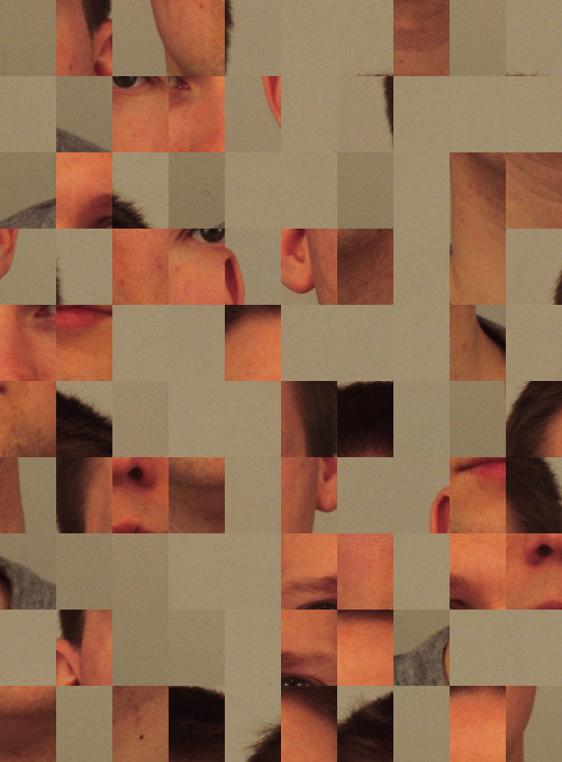
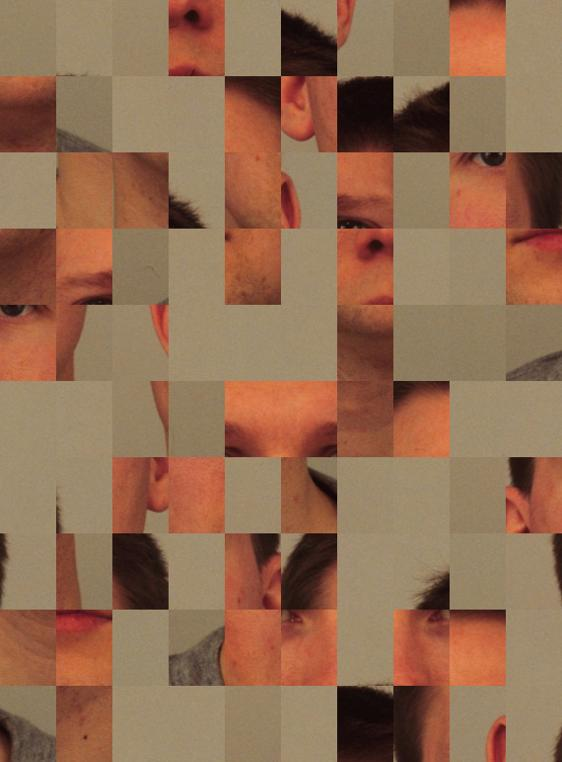
updating scramble demo

diff --git a/scramble_demo/scramble_demo.m b/scramble_demo/scramble_demo.m
@@ -4,6 +4,27 @@
 % Put all your images in a folder (just for organization purposes) let's say images/
 % install the image processing toolbox in Matlab
 
+%% Workspace
+
+input_folder = "raw_images";
+output_folder = "final_images";
+
 %% Reading Images
 
-all_images = dir
+[images, nimages, names] = read_all_images(input_folder, "jpg", 0); % reading all images (check the function)
+
+%% Scramble
+
+im_scrambled = cell(nimages, 1); % init the cell array
+nscram = 10; % number of pieces
+
+for im = 1:nimages
+    im_scrambled{im} = scramble(images{im}, nscram);
+end
+
+%% Writing images
+% you can do it on the previous loop of course
+
+for im = 1:nimages
+    imwrite(im_scrambled{im}, fullfile(output_folder, strcat(names{im})));
+end
